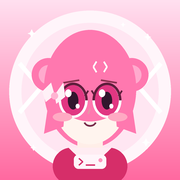
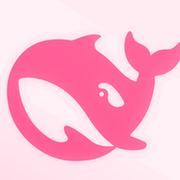
update app source

diff --git a/Sources/AppIcons.swift b/Sources/AppIcons.swift
@@ -8,7 +8,7 @@ struct AppIconOption {
 
 enum AppIcons {
     static let all: [AppIconOption] = [
-        AppIconOption(key: nil, name: "小代码酱", previewName: "IconDefault"),
+        AppIconOption(key: nil, name: "鲸鱼", previewName: "IconDefault"),
         AppIconOption(key: "IconSakura", name: "粉樱", previewName: "IconSakura"),
         AppIconOption(key: "IconCat", name: "猫耳", previewName: "IconCat"),
         AppIconOption(key: "IconMoon", name: "月白", previewName: "IconMoon"),

diff --git a/使用说明.md b/使用说明.md
@@ -3,7 +3,11 @@
 这是 iPhone 版「论坛盒子」——7 个论坛的 App 内嵌浏览器（WKWebView），
 登录态保存在 App 里，跟随 iPhone 系统代理 / VPN。
 
-当前版本：**3.27.0**
+当前版本：**3.28.0**
+v3.28.0 主图标：
+- 默认 App 图标换成桌面「每日任务」快捷方式的粉色鲸鱼图标
+- 图标选择页默认项改名为「鲸鱼」
+- 之前那 10 个二次元头像仍保留
 v3.27.0 主图标：
 - 默认 App 图标换成粉色「小代码酱」：粉色短发、代码 `< >` 发夹、终端 `>_` 领口
 - 图标选择页默认项改名为「小代码酱」
